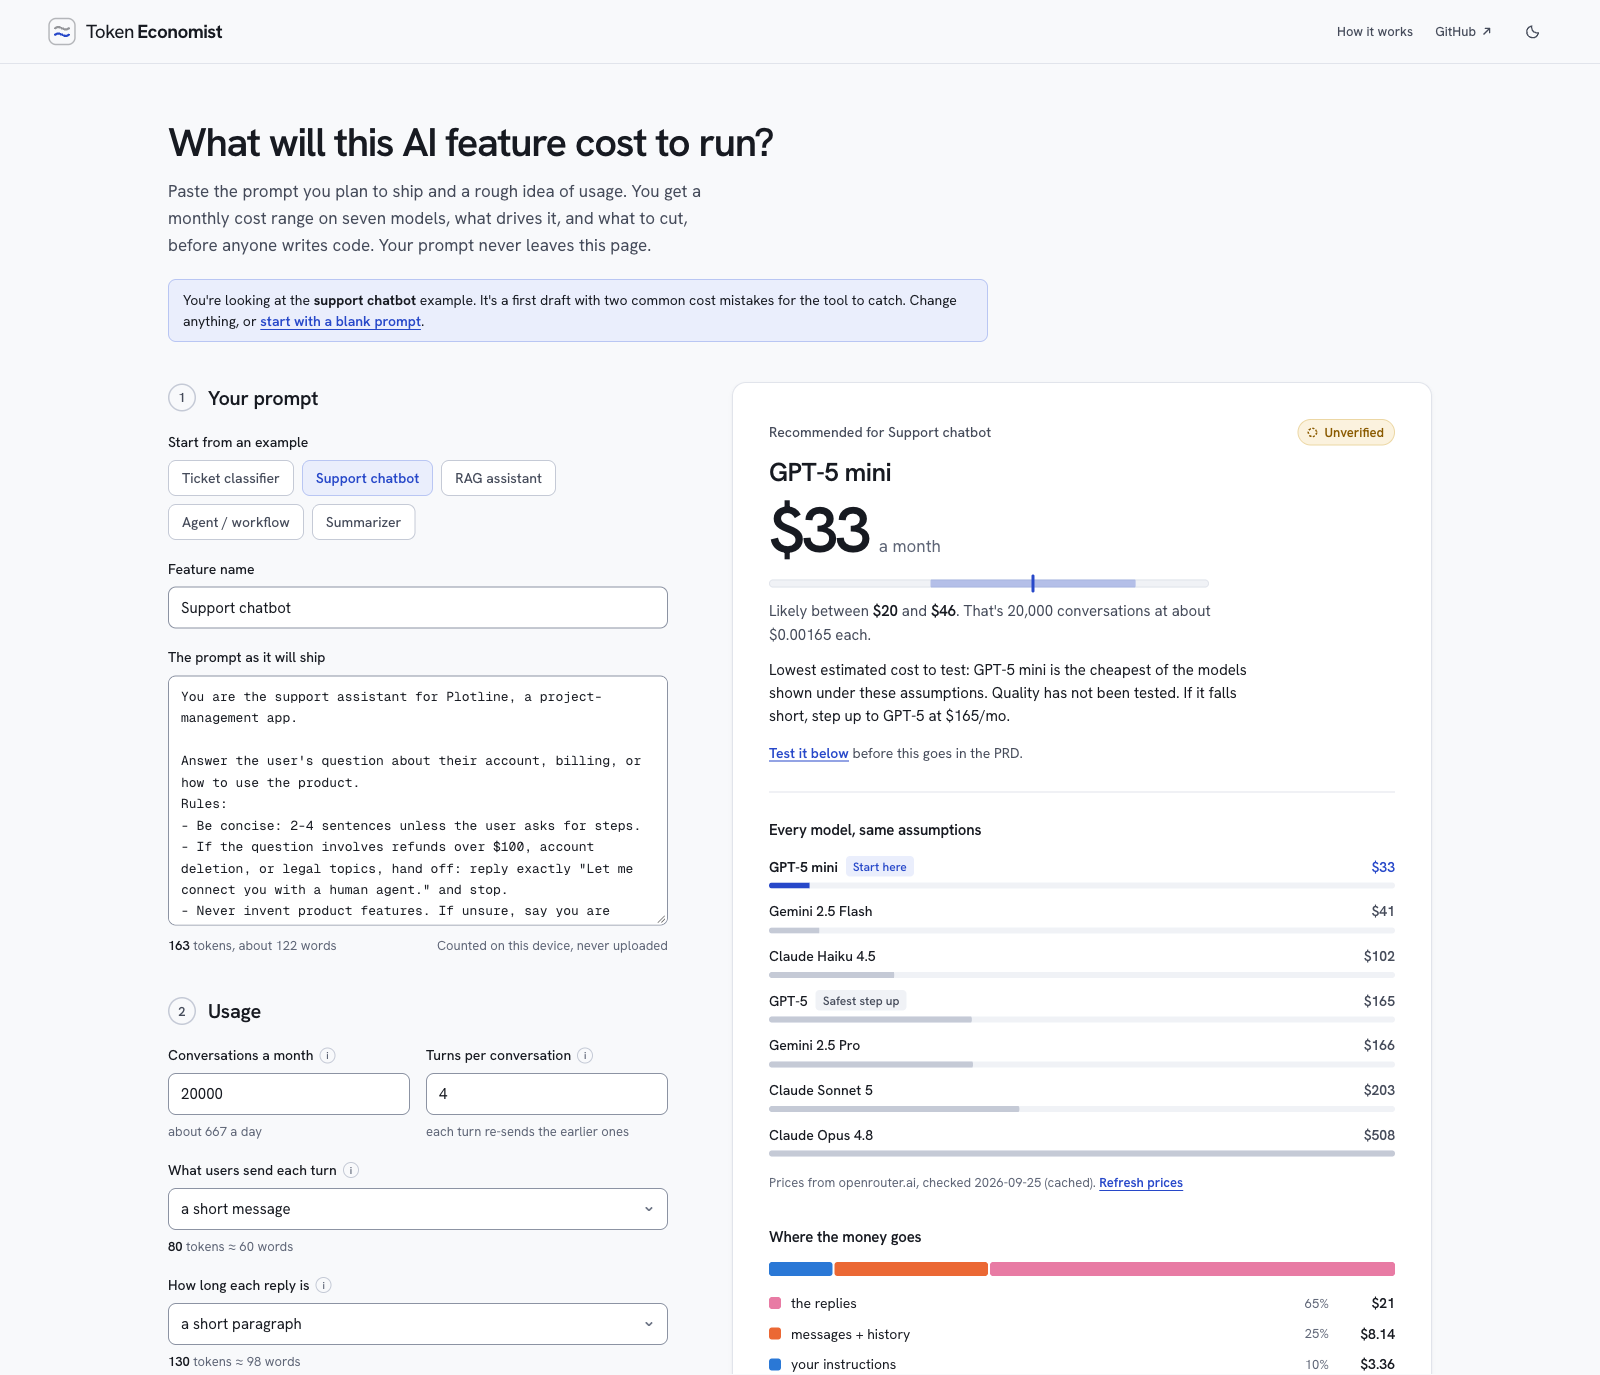
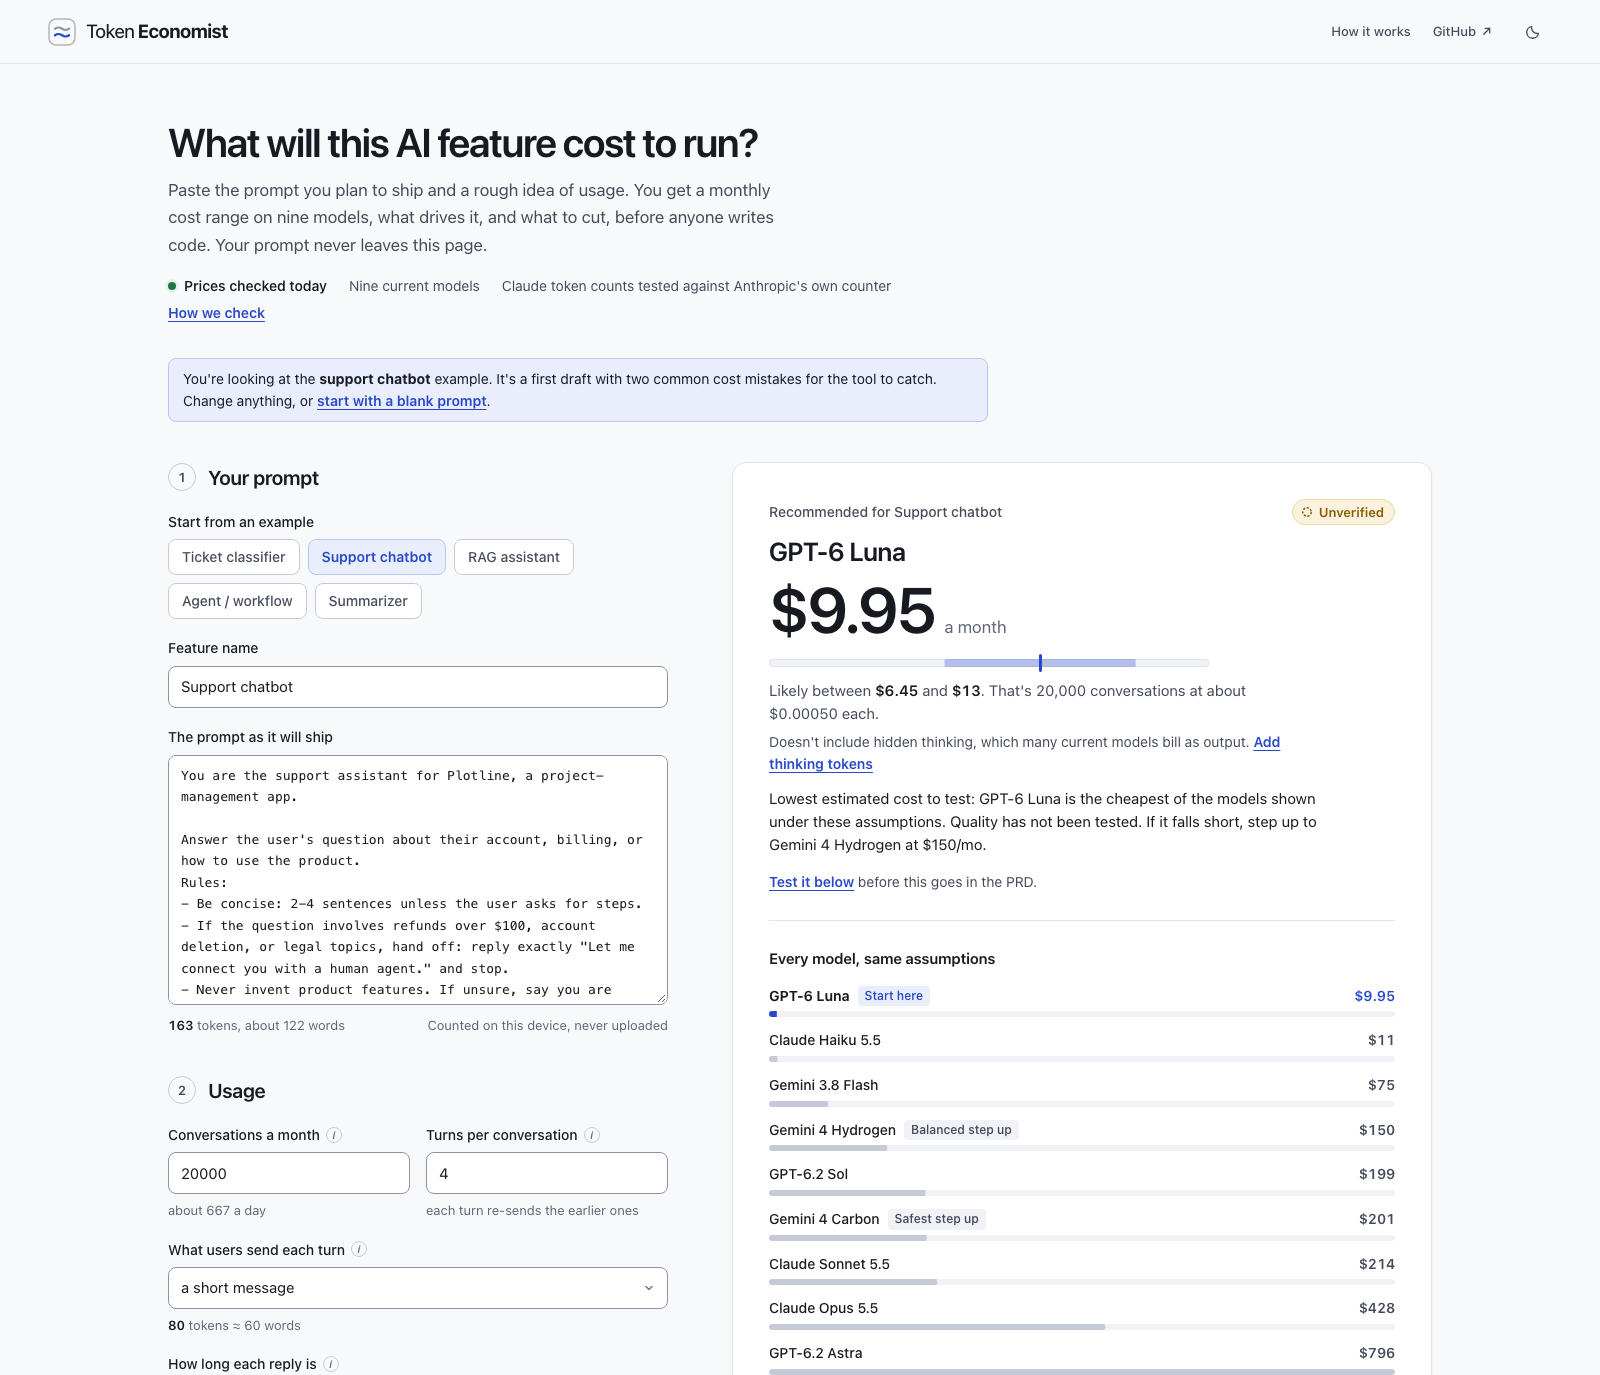
Show how current the numbers are, and how they're checked (D40) (#10)
A status line under the headline (prices checked today, model count, Claude
token counts tested against Anthropic's counter, "How we check"), driven by
the real price-check state. A "How we check" section in How it works. The
share image is re-captured from the current page; it showed the retired
lineup.

diff --git a/src/App.tsx b/src/App.tsx
@@ -30,7 +30,10 @@ import { decodeShareState, encodeShareState } from "./core/share";
 
 /** The registry as priced today: an announced price change applies from its
  *  date (D39). Everything downstream, including the list check, starts here. */
-const PRICED_MODELS = pricesOn(MODELS, new Date().toISOString().slice(0, 10));
+const TODAY = new Date().toISOString().slice(0, 10);
+const PRICED_MODELS = pricesOn(MODELS, TODAY);
+
+const capitalize = (s: string) => s.charAt(0).toUpperCase() + s.slice(1);
 
 /** State restored from a shared permalink, if the URL carries one. */
 const RESTORED = typeof window !== "undefined" ? decodeShareState(window.location.hash) : null;
@@ -582,6 +585,20 @@ export default function App() {
             range on {modelCountWord()} models, what drives it, and what to cut, before anyone writes code. Your
             prompt never leaves this page.
           </p>
+          <ul className="trust-line" aria-label="How current the numbers are">
+            <li className="trust-status">
+              <span className={`trust-dot ${priceStatus.kind}`} aria-hidden="true" />
+              {priceStatus.kind === "loading" && "Checking prices…"}
+              {priceStatus.kind === "live" &&
+                (priceStatus.fetchedAt === TODAY ? "Prices checked today" : `Prices checked ${priceStatus.fetchedAt}`)}
+              {(priceStatus.kind === "snapshot" || priceStatus.kind === "error") && "Using providers' published prices"}
+            </li>
+            <li>{capitalize(modelCountWord())} current models</li>
+            <li>Claude token counts tested against Anthropic's own counter</li>
+            <li>
+              <a href="#how-we-check">How we check</a>
+            </li>
+          </ul>
           {RESTORED?.referenceNote && <p className="example-note">{RESTORED.referenceNote}</p>}
           {activeExample && !RESTORED && (
             <p className="example-note">
@@ -912,7 +929,28 @@ export default function App() {
             <div>
               <h3>Under the hood</h3>
               <p>Built with React, TypeScript and Vite. An offline tokenizer and deterministic cost model account for conversation history, retries, caching and tools. Vitest checks the calculations and evidence rules. Provider differences and unknown reply lengths appear as ranges.</p>
-              <p>Prompts stay in your browser. The app fetches a public price list, and a dated snapshot works offline. The hosted site uses Cloudflare for traffic and performance analytics. Quality results are self-reported, and share links contain the prompt only when you choose to create one.</p>
+              <p>Prompts stay in your browser. The app downloads a public price list to check prices, and works offline with the prices it ships with. The hosted site uses Cloudflare for traffic and performance analytics. Quality results are self-reported, and share links contain the prompt only when you choose to create one.</p>
+            </div>
+            <div className="how-check" id="how-we-check">
+              <h3>How we check</h3>
+              <p>
+                <strong>Prices.</strong> Each price comes from the provider's own pricing page, dated. On every
+                visit (at most every six hours) the site checks them against OpenRouter's public price list. Where
+                they differ, the provider's price is used and the list's is shown beside it, unless ours is more
+                than 90 days old. Price changes a provider has announced apply on their date, and long prompts are
+                billed at the higher rate some models charge for them.
+              </p>
+              <p>
+                <strong>Models.</strong> A person chooses the lineup. A job compares it with the public model list
+                and proposes new, changed and retiring models as a pull request. Nothing changes until someone
+                reviews and merges it.
+              </p>
+              <p>
+                <strong>Token counts.</strong> Your prompt is counted in your browser. Other providers split text
+                differently, so their costs are ranges. The Claude range was measured against Anthropic's own
+                counter on 30 texts, then re-tested on all three Claude models here: every count fell inside it.
+                Google's range has not been measured yet.
+              </p>
             </div>
           </div>
         </section>

diff --git a/src/App.css b/src/App.css
@@ -264,6 +264,66 @@ main {
   color: var(--ink-soft);
 }
 
+.trust-line {
+  display: flex;
+  flex-wrap: wrap;
+  align-items: center;
+  gap: 6px 22px;
+  margin-top: 16px;
+  padding: 0;
+  list-style: none;
+  font-size: 0.875rem;
+  color: var(--ink-soft);
+}
+
+.trust-line li {
+  display: inline-flex;
+  align-items: center;
+}
+
+/* Spacing, not separators, between items, so a wrapped row never starts
+   with a stray dot. On a phone they stack under the status. */
+@media (max-width: 640px) {
+  .trust-line {
+    flex-direction: column;
+    align-items: flex-start;
+    gap: 4px;
+  }
+
+  .trust-line li + li {
+    padding-left: 16px;
+  }
+}
+
+.trust-status {
+  color: var(--ink);
+  font-weight: 550;
+}
+
+.trust-dot {
+  flex: none;
+  width: 8px;
+  height: 8px;
+  margin-right: 8px;
+  border-radius: 50%;
+  background: var(--ink-soft);
+}
+
+.trust-dot.live {
+  background: var(--good);
+  box-shadow: 0 0 0 3px var(--good-soft);
+}
+
+.trust-dot.snapshot,
+.trust-dot.error {
+  background: var(--warn);
+}
+
+.trust-line a {
+  color: var(--accent);
+  font-weight: 600;
+}
+
 .example-note {
   display: inline-block;
   margin-top: 20px;
@@ -1683,6 +1743,20 @@ main {
 
 .how-body h3 {
   font-size: var(--fs-md);
+  font-weight: 600;
+}
+
+.how-body .how-check {
+  grid-column: 1 / -1;
+  scroll-margin-top: 80px;
+}
+
+.how-check p {
+  max-width: 76ch;
+}
+
+.how-check strong {
+  color: var(--ink);
   font-weight: 600;
 }
 

diff --git a/DECISIONS.md b/DECISIONS.md
@@ -1122,3 +1122,28 @@ point at them.
 Not changed: the weekly sync still proposes the list's Gemini 3.8 Flash price
 each week (decline it), and the thinking default is the owner's call if a
 non-zero default is wanted.
+
+## 2026-11-23 — D40: Say up front how current the numbers are
+
+The site checks prices on every visit, tests its Claude token ranges against
+Anthropic's counter, and keeps a reviewed model lineup. Visitors couldn't see
+any of that beyond a grey line under the model list. With D39's fixes in, it
+is accurate enough to state plainly.
+
+- **Under the headline**: a status line reading "Prices checked today" (with
+  the real check date, or "Using providers' published prices" when the list
+  can't be reached), the model count, "Claude token counts tested against
+  Anthropic's own counter", and a "How we check" link. It is driven by the
+  same price-check state as the note under the model list, so it can't claim
+  a check that didn't happen. On a phone the items stack.
+- **"How we check"** in How it works covers prices (provider pages, dated,
+  checked against OpenRouter, provider wins unless stale, announced changes
+  and long-prompt rates), models (a person chooses, a job proposes changes as
+  a reviewed pull request) and token counts (Claude measured and re-tested;
+  Google not yet).
+- **Deliberately not claimed**: "real-time" or "live" pricing, that the list
+  is official, the ±12% figure (D38), that Google's ranges are verified, and
+  a weekly cadence. The weekly job's first scheduled run on 2026-11-23 never
+  started, so its frequency isn't stated until it has run on schedule.
+- **Share image**: re-captured from the current page at the same 1600x1375
+  size, in the light theme. The old one showed the retired seven-model lineup.
